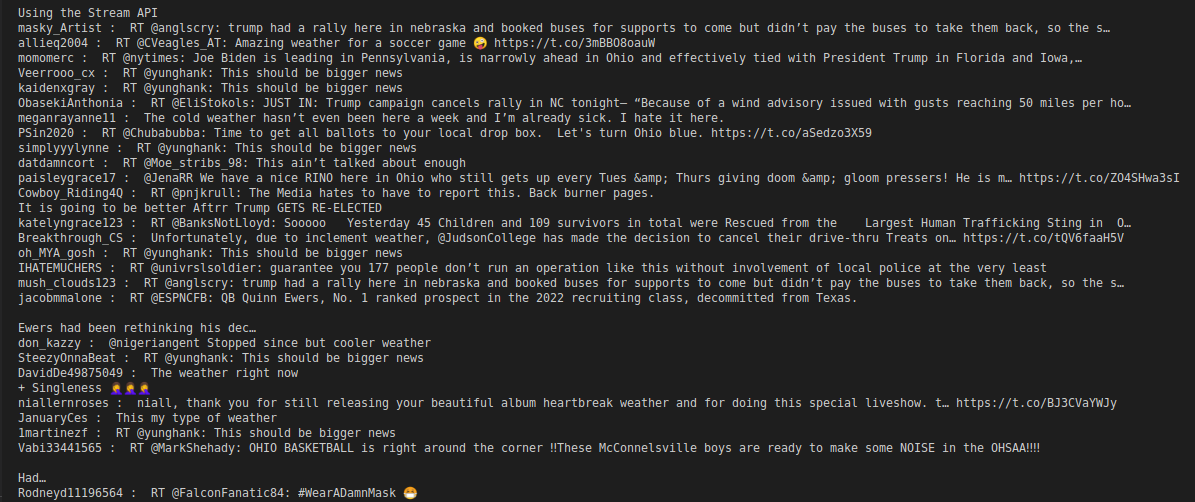
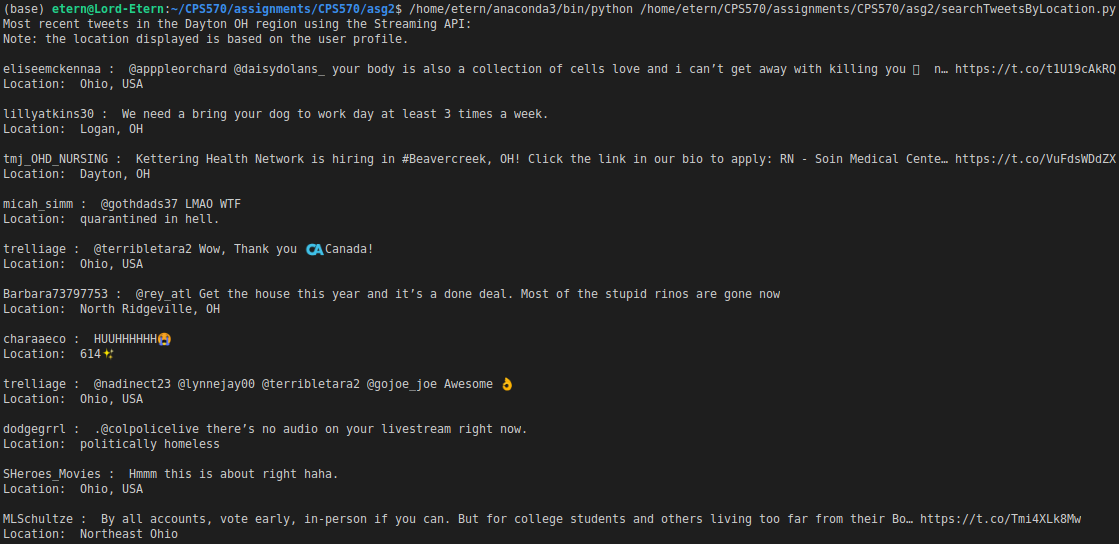
add comments, updated readme, updated 3-stream.png

Changed region(s): [[0.0, 0.0, 1.0, 1.0]]

diff --git a/asg2/getUserInfo.py b/asg2/getUserInfo.py
@@ -4,21 +4,29 @@ import const, sys, os
 import tweepy
 from tweepy import TweepError
 
-
+# Connect and authenticate to the twitter API
 auth = tweepy.OAuthHandler(const.API_KEY, const.API_SECRET_KEY)
 auth.set_access_token(const.ACCESS_TOKEN, const.ACESS_TOKEN_SECRET)
 api = tweepy.API(auth)
 
+# This function obtains some information about a user given the users's screen name
 def get_user_info(screenName):
     try:    
         try:
-            sname = api.get_user(screenName)
-            sn = [sname.id]
-            users = api.lookup_users(user_ids=sn)    
+            sname = api.get_user(screenName)    # Uses the given screen name to get the user object 
         except TweepError:
-            print('Could not find user')
-            
+            print('Could not find user screen name')    # User not found exception handler
+            return False 
+        sn = [sname.id] # obtains the user id from the user object
+        try:
+            users = api.lookup_users(user_ids=sn)   # performs another lookup based on the user id.         
+        except TweepError as e:
+            print(str(e))
+            print('Could not find user id')
+            return False
         
+        
+        # if user information is found, print the following fields. 
         for user in users:
                 print("\n Screen name: ", user.screen_name)
                 print('User ID: ', user.id)
@@ -30,13 +38,15 @@ def get_user_info(screenName):
                 print('User URL: ', user.url, "\n")
     except KeyboardInterrupt:
         print("\n Program stopped!")
-def main():
 
-    usernames = []
+def main():
+    # Program accepts a file containing list of user screen names
+    usernames = []     # list for storing screen names
     if len(sys.argv) < 2:
         print("Error: Insufficient arguments \n Correct Usage: <interpreter> <programname>.py <file_containing_user_names>")
         sys.exit()
     filename = sys.argv[1]
+    # file handler
     try:
         with open(filename) as file:
             for line in file:
@@ -48,10 +58,11 @@ def main():
         sys.exit(1)
     # print(usernames)
     
+    # iterate through list to obtain and print user info
     for name in usernames:
         try:
-            get_user_info(name)
-
+            if (get_user_info(name) == False):
+                break
         except KeyboardInterrupt:
             print("\nProgram Stopped!")
 

diff --git a/asg2/getUserConnections.py b/asg2/getUserConnections.py
@@ -5,20 +5,32 @@ import tweepy
 from tweepy import Stream, TweepError
 from tweepy.streaming import StreamListener 
 from datetime import date
+
+# Connect and authenticate to the twitter API
 auth = tweepy.OAuthHandler(const.API_KEY, const.API_SECRET_KEY)
 auth.set_access_token(const.ACCESS_TOKEN, const.ACESS_TOKEN_SECRET)
 api = tweepy.API(auth,wait_on_rate_limit=True, wait_on_rate_limit_notify=True)
 
+# this function obtains the friends and followers for a given screen name
 def get_user_connections(screenName):
     try:
         try:
-            sname = api.get_user(screenName)
-            sn = [sname.id]
-            users = api.lookup_users(user_ids=sn)    
+            sname = api.get_user(screenName)    # Uses the given screen name to get the user object 
         except TweepError:
-            print('Could not find user')
+            print('Could not find user screen name')
+            return False
+        sn = [sname.id]     # Gets user id from the user object 
+        try:
+            users = api.lookup_users(user_ids=sn)   # gets user object from the user id 
+        except TweepError as e:
+            print(str(e))
+            print('Could not find user id')
+            return False
+            
         i = 1
         j = 1
+        
+        # obtain the users friends
         for user in users:
             print("User: ", user.screen_name)
             print("Friends: ", user.friends_count)
@@ -30,6 +42,7 @@ def get_user_connections(screenName):
                 print(str(error))           
             print("\n")
         
+        # obtain the user's followers 
         for user in users:
             try:
                 print("Followers: ", user.followers_count)
@@ -46,11 +59,14 @@ def get_user_connections(screenName):
 
 
 def main():
+
+    # Program accepts a file containing list of user screen names
     usernames = []
     if len(sys.argv) < 2:
         print("Error: Insufficient arguments \n Correct Usage: <interpreter> <programname>.py <file_containing_user_names>")
         sys.exit()
     filename = sys.argv[1]
+    # file handler
     try:
         with open(filename) as file:
             for line in file:
@@ -63,8 +79,8 @@ def main():
     # print(usernames)
     
     for name in usernames:
-        get_user_connections(name)
-
+        if(get_user_connections(name) == False): 
+            break
     print("Done!")
     return
 

diff --git a/asg2/searchTweetsByLocation.py b/asg2/searchTweetsByLocation.py
@@ -5,11 +5,14 @@ import tweepy
 from tweepy import Stream, TweepError
 from tweepy.streaming import StreamListener 
 from datetime import date
+
+# Connect and authenticate to the twitter API
 auth = tweepy.OAuthHandler(const.API_KEY, const.API_SECRET_KEY)
 auth.set_access_token(const.ACCESS_TOKEN, const.ACESS_TOKEN_SECRET)
 api = tweepy.API(auth,wait_on_rate_limit=True, wait_on_rate_limit_notify=True)
 
-
+# This program streams the latest tweets in the dayton, OH region. The user location displayed in the output is based on the 
+# This class inherits from the Tweepy TweetListner class 
 class TweetListener(StreamListener):
     ''' A listener handles tweets received from the stream and can print to stdout'''
  
@@ -17,11 +20,13 @@ class TweetListener(StreamListener):
         super().__init__()
         self.neededTweets = 50 
         self.count = 0
-    
+
+    # This method typically passes the data to the on_status method, here I added a few lines to print the data to stdout. 
     def on_data(self,data):
         try:
-            tweet_json = json.loads(data)
+            tweet_json = json.loads(data) # collects the tweets/data as json
             print(tweet_json['user']['screen_name'],": ",tweet_json['text'])
+            print("Location: ",tweet_json['user']['location'], "\n")
         except TypeError:
             print("Something's wrong here... must be the JSON!")
         else: 
@@ -38,11 +43,12 @@ class TweetListener(StreamListener):
         print(status)
 
 def search_tweets_by_location():
-    print("Most recent tweets in the Dayton OH region using the Streaming API: \n")
+    print("Most recent tweets in the Dayton OH region using the Streaming API:")
+    print("Note: the location displayed is based on the user profile. \n")
     twitterStream = Stream(auth, TweetListener(), wait_on_rate_limit = True, wait_on_rate_limit_notify = True)
    
     try: 
-        twitterStream.filter(locations=[-84.311377,39.70185,-84.092938,39.920823])        
+        twitterStream.filter(locations=[-84.311377,39.70185,-84.092938,39.920823])   # Stream tweets within the Dayton OH region specified by the bounded box.     
     except KeyboardInterrupt:
         print("stopped")
          

diff --git a/asg2/searchTweetsByKeyword.py b/asg2/searchTweetsByKeyword.py
@@ -4,11 +4,13 @@ import tweepy
 from tweepy import Stream, TweepError
 from tweepy.streaming import StreamListener 
 from datetime import date
+
+# Connect and authenticate to the twitter API
 auth = tweepy.OAuthHandler(const.API_KEY, const.API_SECRET_KEY)
 auth.set_access_token(const.ACCESS_TOKEN, const.ACESS_TOKEN_SECRET)
 api = tweepy.API(auth,wait_on_rate_limit=True, wait_on_rate_limit_notify=True)
 
-
+# This class inherits from the Tweepy TweetListner class 
 class TweetListener(StreamListener):
     ''' A listener handles tweets received from the stream and can print to stdout'''
  
@@ -36,14 +38,17 @@ class TweetListener(StreamListener):
     def on_error(self, status):
         print(status)
 
+# This method search tweets with the given keywords using the Stream API
 def search_tweets_by_keyword_stream():
+    # an object of the Tweet Listner object class
     twitterStream = Stream(auth, TweetListener(), wait_on_rate_limit = True, wait_on_rate_limit_notify = True)
 
     try: 
-        twitterStream.filter(track=['Ohio','Weather'])
+        twitterStream.filter(track=['Ohio','Weather']) # Streams tweets with the specified key words
     except KeyboardInterrupt:
         print("\n Program stopped!")
 
+# This method search tweets with the given keywords using the Search API
 def search_tweets_by_keywords_search():
     search_words = "Ohio" and "weather"
     current_date = date.today()  #"2020-10-25"

diff --git a/asg2/Readme.md b/asg2/Readme.md
@@ -48,6 +48,10 @@ Using Twitter APIs:
 * REST APIs
 * Streaming APIs
 * Search API
+
+## To Do
+Optimise program efficiency and reduce complexity.
+
  
 
 
